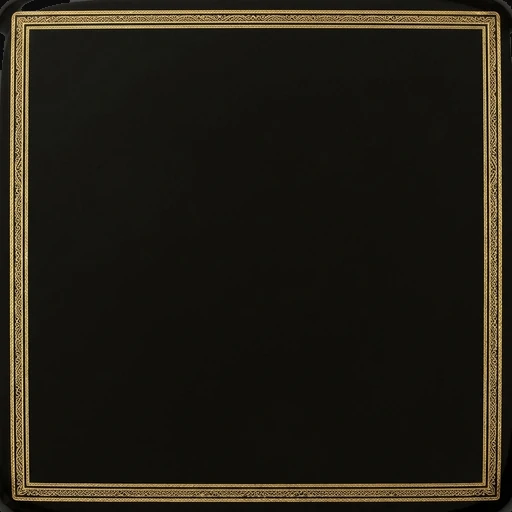
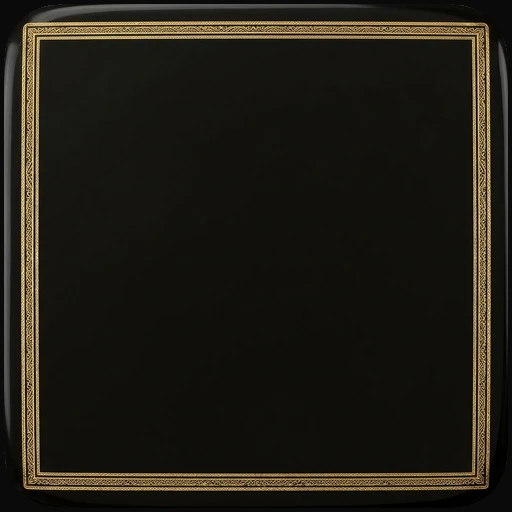
New: Royal Garnet board, Amber & Onyx checkers, Lapis & Silver dice; cleaner die-face corners
Claude-Session: https://claude.ai/code/session_01AL2dBCS2fTfjXEhGfirNkU

Changed region(s): [[0.0, 0.0, 1.0, 1.0]]

diff --git a/dev/artifact-index.html b/dev/artifact-index.html
@@ -439,6 +439,7 @@ button:focus-visible { outline: 2px solid var(--gold-hi); outline-offset: 2px; }
 .die3.ivory { --face: url(assets/dice/ivory/face.webp); --sign: url(assets/dice/ivory/sign.webp); --core-c: #c9b089; }
 .die3.wood { --face: url(assets/dice/wood/face.webp); --sign: url(assets/dice/wood/sign.webp); --core-c: #3a2414; }
 .die3.obsidian { --face: url(assets/dice/obsidian/face.webp); --sign: url(assets/dice/obsidian/sign.webp); --core-c: #0b0b0b; }
+.die3.lapis { --face: url(assets/dice/lapis/face.webp); --sign: url(assets/dice/lapis/sign.webp); --core-c: #1a2c78; }
 .die3.pearl { --face: url(assets/dice/pearl/face.webp); --sign: url(assets/dice/pearl/sign.webp); --core-c: #d9d5cc; }
 .die3 .sign { position: absolute; inset: 23%; background: var(--sign) center / contain no-repeat; filter: drop-shadow(0 calc(var(--s) * .01) calc(var(--s) * .015) rgba(0, 0, 0, .45)); }
 .die3 .core b:nth-child(1) { transform: translateZ(calc(var(--s) * .44)); }
@@ -454,6 +455,8 @@ button:focus-visible { outline: 2px solid var(--gold-hi); outline-offset: 2px; }
   box-shadow: inset 0 0 0 calc(var(--s) * .012) rgba(30, 15, 4, .7), 0 1px 0 rgba(255, 255, 255, .25); }
 .die3.obsidian .f i { background: radial-gradient(circle at 42% 32%, #fff3c9 0 12%, #e7b24a 45%, #7e5210 85%);
   box-shadow: inset 0 0 0 calc(var(--s) * .01) rgba(0, 0, 0, .6), 0 1px 0 rgba(255, 255, 255, .2); }
+.die3.lapis .f i { background: radial-gradient(circle at 42% 32%, #ffffff 0 12%, #d5dbe4 45%, #6d7683 85%);
+  box-shadow: inset 0 0 0 calc(var(--s) * .01) rgba(0, 0, 20, .6), 0 1px 0 rgba(255, 255, 255, .25); }
 .die3.pearl .f i { background: radial-gradient(circle at 42% 32%, #fff3c9 0 12%, #e2ae4c 45%, #8a5a17 85%);
   box-shadow: inset 0 0 0 calc(var(--s) * .014) rgba(55, 32, 4, .85), 0 1px 0 rgba(255, 255, 255, .55); }
 .die3 .dsh { position: absolute; inset: 7%; border-radius: 30%; background: rgba(0, 0, 0, .62); filter: blur(calc(var(--s) * .1)); transform: translate(6%, 12%); }
@@ -607,19 +610,22 @@ const SKINS = {
   oak:    { name: 'Golden Oak', desc: 'Light oak, apricot-wood inlay and carved pomegranate branches.', price: 400, W: 848, H: 1264, L: [70, 397], top: 70, bot: 1206, dim: 1, dice: 'wood' },
   ebony:  { name: 'Pearl Ebony', desc: 'Black ebony inlaid with mother-of-pearl and gold.', price: 900, W: 848, H: 1264, L: [60, 392], top: 55, bot: 1196, dim: .86, dice: 'pearl' },
   tuff:   { name: 'Pink Tuff', desc: 'The rose-pink stone of Yerevan, carved lace and a black basalt bar.', price: 1200, W: 848, H: 1264, L: [66, 398], top: 64, bot: 1200, dim: 1, dice: 'obsidian' },
+  garnet: { name: 'Royal Garnet', desc: 'Garnet-red cherry under glossy lacquer, with gold-leaf lines and a golden pomegranate tree.', price: 1500, W: 848, H: 1264, L: [66, 398], top: 68, bot: 1196, dim: 1, dice: 'lapis' },
 };
 for (const k in SKINS) { const sk = SKINS[k]; sk.id = k; sk.R = [sk.W - sk.L[1], sk.W - sk.L[0]]; }
 const SETS = {
   classic: { name: 'Ivory & Mahogany', desc: 'The classic pair. Polished ivory and red mahogany.', price: 0, ring: true },
   bone:    { name: 'Bone & Walnut', desc: 'Cream bone with a walnut rim, and dark walnut.', price: 200, ring: false },
-  tuff:    { name: 'Tuff & Basalt', desc: 'Rose-pink tuff against polished black basalt, two Armenian stones.', price: 700, ring: true },
   pearl:   { name: 'Pearl & Garnet', desc: 'Mother-of-pearl and garnet lacquer, gold rims.', price: 500, ring: true },
+  tuff:    { name: 'Tuff & Basalt', desc: 'Rose-pink tuff against polished black basalt, two Armenian stones.', price: 700, ring: true },
+  amber:   { name: 'Amber & Onyx', desc: 'Honey amber against black onyx, both with thin gold rims.', price: 900, ring: true },
 };
 const DICE = {
   ivory: { name: 'Bronze Ivory', desc: 'Ivory dice, dark pips and a bronze eternity sign on the one.', price: 0 },
   wood:  { name: 'Walnut & Bone', desc: 'Dark walnut dice with bone pips and a carved bone eternity sign.', price: 250 },
-  obsidian: { name: 'Obsidian & Gold', desc: 'Black Armenian obsidian with gold pips and a gold eternity sign.', price: 800 },
   pearl: { name: 'Pearl & Gold', desc: 'Mother-of-pearl dice with gold pips and a gold eternity sign.', price: 600 },
+  obsidian: { name: 'Obsidian & Gold', desc: 'Black Armenian obsidian with gold pips and a gold eternity sign.', price: 800 },
+  lapis: { name: 'Lapis & Silver', desc: 'Deep blue lapis lazuli with gold flecks, silver pips and a silver eternity sign.', price: 1000 },
 };
 const CAT = { skins: SKINS, sets: SETS, dice: DICE }, EQK = { skins: 'skin', sets: 'set', dice: 'dice' }, TAB_KIND = { boards: 'skins', sets: 'sets', dice: 'dice' };
 const A = (skin, part) => `assets/skins/${skin}/${part}.webp`, SA = (set, part) => `assets/sets/${set}/${part}.webp`;
@@ -1373,7 +1379,7 @@ const V3 = (() => {
     return c;
   }
   const DICE_PIPS = { 1: [[.5, .5]], 2: [[.28, .28], [.72, .72]], 3: [[.28, .28], [.5, .5], [.72, .72]], 4: [[.28, .28], [.72, .28], [.28, .72], [.72, .72]], 5: [[.28, .28], [.72, .28], [.5, .5], [.28, .72], [.72, .72]], 6: [[.28, .25], [.72, .25], [.28, .5], [.72, .5], [.28, .75], [.72, .75]] };
-  const PIP_C = { ivory: ['#050302', '#2e1b0c'], wood: ['#fffaea', '#b49562'], pearl: ['#fff3c9', '#8a5a17'], obsidian: ['#fff0c0', '#9a6a1c'] };
+  const PIP_C = { ivory: ['#050302', '#2e1b0c'], wood: ['#fffaea', '#b49562'], pearl: ['#fff3c9', '#8a5a17'], obsidian: ['#fff0c0', '#9a6a1c'], lapis: ['#ffffff', '#7a8494'] };
   function dieFace(face, sign, theme, v) {
     const [c, x] = canvas(256, 256); x.drawImage(face, 0, 0, 256, 256);
     if (v === 1) { const m = 256 * .23; x.drawImage(sign, m, m, 256 - 2 * m, 256 - 2 * m); return c; }

diff --git a/index.html b/index.html
@@ -454,6 +454,7 @@ button:focus-visible { outline: 2px solid var(--gold-hi); outline-offset: 2px; }
 .die3.ivory { --face: url(assets/dice/ivory/face.webp); --sign: url(assets/dice/ivory/sign.webp); --core-c: #c9b089; }
 .die3.wood { --face: url(assets/dice/wood/face.webp); --sign: url(assets/dice/wood/sign.webp); --core-c: #3a2414; }
 .die3.obsidian { --face: url(assets/dice/obsidian/face.webp); --sign: url(assets/dice/obsidian/sign.webp); --core-c: #0b0b0b; }
+.die3.lapis { --face: url(assets/dice/lapis/face.webp); --sign: url(assets/dice/lapis/sign.webp); --core-c: #1a2c78; }
 .die3.pearl { --face: url(assets/dice/pearl/face.webp); --sign: url(assets/dice/pearl/sign.webp); --core-c: #d9d5cc; }
 .die3 .sign { position: absolute; inset: 23%; background: var(--sign) center / contain no-repeat; filter: drop-shadow(0 calc(var(--s) * .01) calc(var(--s) * .015) rgba(0, 0, 0, .45)); }
 .die3 .core b:nth-child(1) { transform: translateZ(calc(var(--s) * .44)); }
@@ -469,6 +470,8 @@ button:focus-visible { outline: 2px solid var(--gold-hi); outline-offset: 2px; }
   box-shadow: inset 0 0 0 calc(var(--s) * .012) rgba(30, 15, 4, .7), 0 1px 0 rgba(255, 255, 255, .25); }
 .die3.obsidian .f i { background: radial-gradient(circle at 42% 32%, #fff3c9 0 12%, #e7b24a 45%, #7e5210 85%);
   box-shadow: inset 0 0 0 calc(var(--s) * .01) rgba(0, 0, 0, .6), 0 1px 0 rgba(255, 255, 255, .2); }
+.die3.lapis .f i { background: radial-gradient(circle at 42% 32%, #ffffff 0 12%, #d5dbe4 45%, #6d7683 85%);
+  box-shadow: inset 0 0 0 calc(var(--s) * .01) rgba(0, 0, 20, .6), 0 1px 0 rgba(255, 255, 255, .25); }
 .die3.pearl .f i { background: radial-gradient(circle at 42% 32%, #fff3c9 0 12%, #e2ae4c 45%, #8a5a17 85%);
   box-shadow: inset 0 0 0 calc(var(--s) * .014) rgba(55, 32, 4, .85), 0 1px 0 rgba(255, 255, 255, .55); }
 .die3 .dsh { position: absolute; inset: 7%; border-radius: 30%; background: rgba(0, 0, 0, .62); filter: blur(calc(var(--s) * .1)); transform: translate(6%, 12%); }
@@ -623,19 +626,22 @@ const SKINS = {
   oak:    { name: 'Golden Oak', desc: 'Light oak, apricot-wood inlay and carved pomegranate branches.', price: 400, W: 848, H: 1264, L: [70, 397], top: 70, bot: 1206, dim: 1, dice: 'wood' },
   ebony:  { name: 'Pearl Ebony', desc: 'Black ebony inlaid with mother-of-pearl and gold.', price: 900, W: 848, H: 1264, L: [60, 392], top: 55, bot: 1196, dim: .86, dice: 'pearl' },
   tuff:   { name: 'Pink Tuff', desc: 'The rose-pink stone of Yerevan, carved lace and a black basalt bar.', price: 1200, W: 848, H: 1264, L: [66, 398], top: 64, bot: 1200, dim: 1, dice: 'obsidian' },
+  garnet: { name: 'Royal Garnet', desc: 'Garnet-red cherry under glossy lacquer, with gold-leaf lines and a golden pomegranate tree.', price: 1500, W: 848, H: 1264, L: [66, 398], top: 68, bot: 1196, dim: 1, dice: 'lapis' },
 };
 for (const k in SKINS) { const sk = SKINS[k]; sk.id = k; sk.R = [sk.W - sk.L[1], sk.W - sk.L[0]]; }
 const SETS = {
   classic: { name: 'Ivory & Mahogany', desc: 'The classic pair. Polished ivory and red mahogany.', price: 0, ring: true },
   bone:    { name: 'Bone & Walnut', desc: 'Cream bone with a walnut rim, and dark walnut.', price: 200, ring: false },
-  tuff:    { name: 'Tuff & Basalt', desc: 'Rose-pink tuff against polished black basalt, two Armenian stones.', price: 700, ring: true },
   pearl:   { name: 'Pearl & Garnet', desc: 'Mother-of-pearl and garnet lacquer, gold rims.', price: 500, ring: true },
+  tuff:    { name: 'Tuff & Basalt', desc: 'Rose-pink tuff against polished black basalt, two Armenian stones.', price: 700, ring: true },
+  amber:   { name: 'Amber & Onyx', desc: 'Honey amber against black onyx, both with thin gold rims.', price: 900, ring: true },
 };
 const DICE = {
   ivory: { name: 'Bronze Ivory', desc: 'Ivory dice, dark pips and a bronze eternity sign on the one.', price: 0 },
   wood:  { name: 'Walnut & Bone', desc: 'Dark walnut dice with bone pips and a carved bone eternity sign.', price: 250 },
-  obsidian: { name: 'Obsidian & Gold', desc: 'Black Armenian obsidian with gold pips and a gold eternity sign.', price: 800 },
   pearl: { name: 'Pearl & Gold', desc: 'Mother-of-pearl dice with gold pips and a gold eternity sign.', price: 600 },
+  obsidian: { name: 'Obsidian & Gold', desc: 'Black Armenian obsidian with gold pips and a gold eternity sign.', price: 800 },
+  lapis: { name: 'Lapis & Silver', desc: 'Deep blue lapis lazuli with gold flecks, silver pips and a silver eternity sign.', price: 1000 },
 };
 const CAT = { skins: SKINS, sets: SETS, dice: DICE }, EQK = { skins: 'skin', sets: 'set', dice: 'dice' }, TAB_KIND = { boards: 'skins', sets: 'sets', dice: 'dice' };
 const A = (skin, part) => `assets/skins/${skin}/${part}.webp`, SA = (set, part) => `assets/sets/${set}/${part}.webp`;
@@ -1389,7 +1395,7 @@ const V3 = (() => {
     return c;
   }
   const DICE_PIPS = { 1: [[.5, .5]], 2: [[.28, .28], [.72, .72]], 3: [[.28, .28], [.5, .5], [.72, .72]], 4: [[.28, .28], [.72, .28], [.28, .72], [.72, .72]], 5: [[.28, .28], [.72, .28], [.5, .5], [.28, .72], [.72, .72]], 6: [[.28, .25], [.72, .25], [.28, .5], [.72, .5], [.28, .75], [.72, .75]] };
-  const PIP_C = { ivory: ['#050302', '#2e1b0c'], wood: ['#fffaea', '#b49562'], pearl: ['#fff3c9', '#8a5a17'], obsidian: ['#fff0c0', '#9a6a1c'] };
+  const PIP_C = { ivory: ['#050302', '#2e1b0c'], wood: ['#fffaea', '#b49562'], pearl: ['#fff3c9', '#8a5a17'], obsidian: ['#fff0c0', '#9a6a1c'], lapis: ['#ffffff', '#7a8494'] };
   function dieFace(face, sign, theme, v) {
     const [c, x] = canvas(256, 256); x.drawImage(face, 0, 0, 256, 256);
     if (v === 1) { const m = 256 * .23; x.drawImage(sign, m, m, 256 - 2 * m, 256 - 2 * m); return c; }
